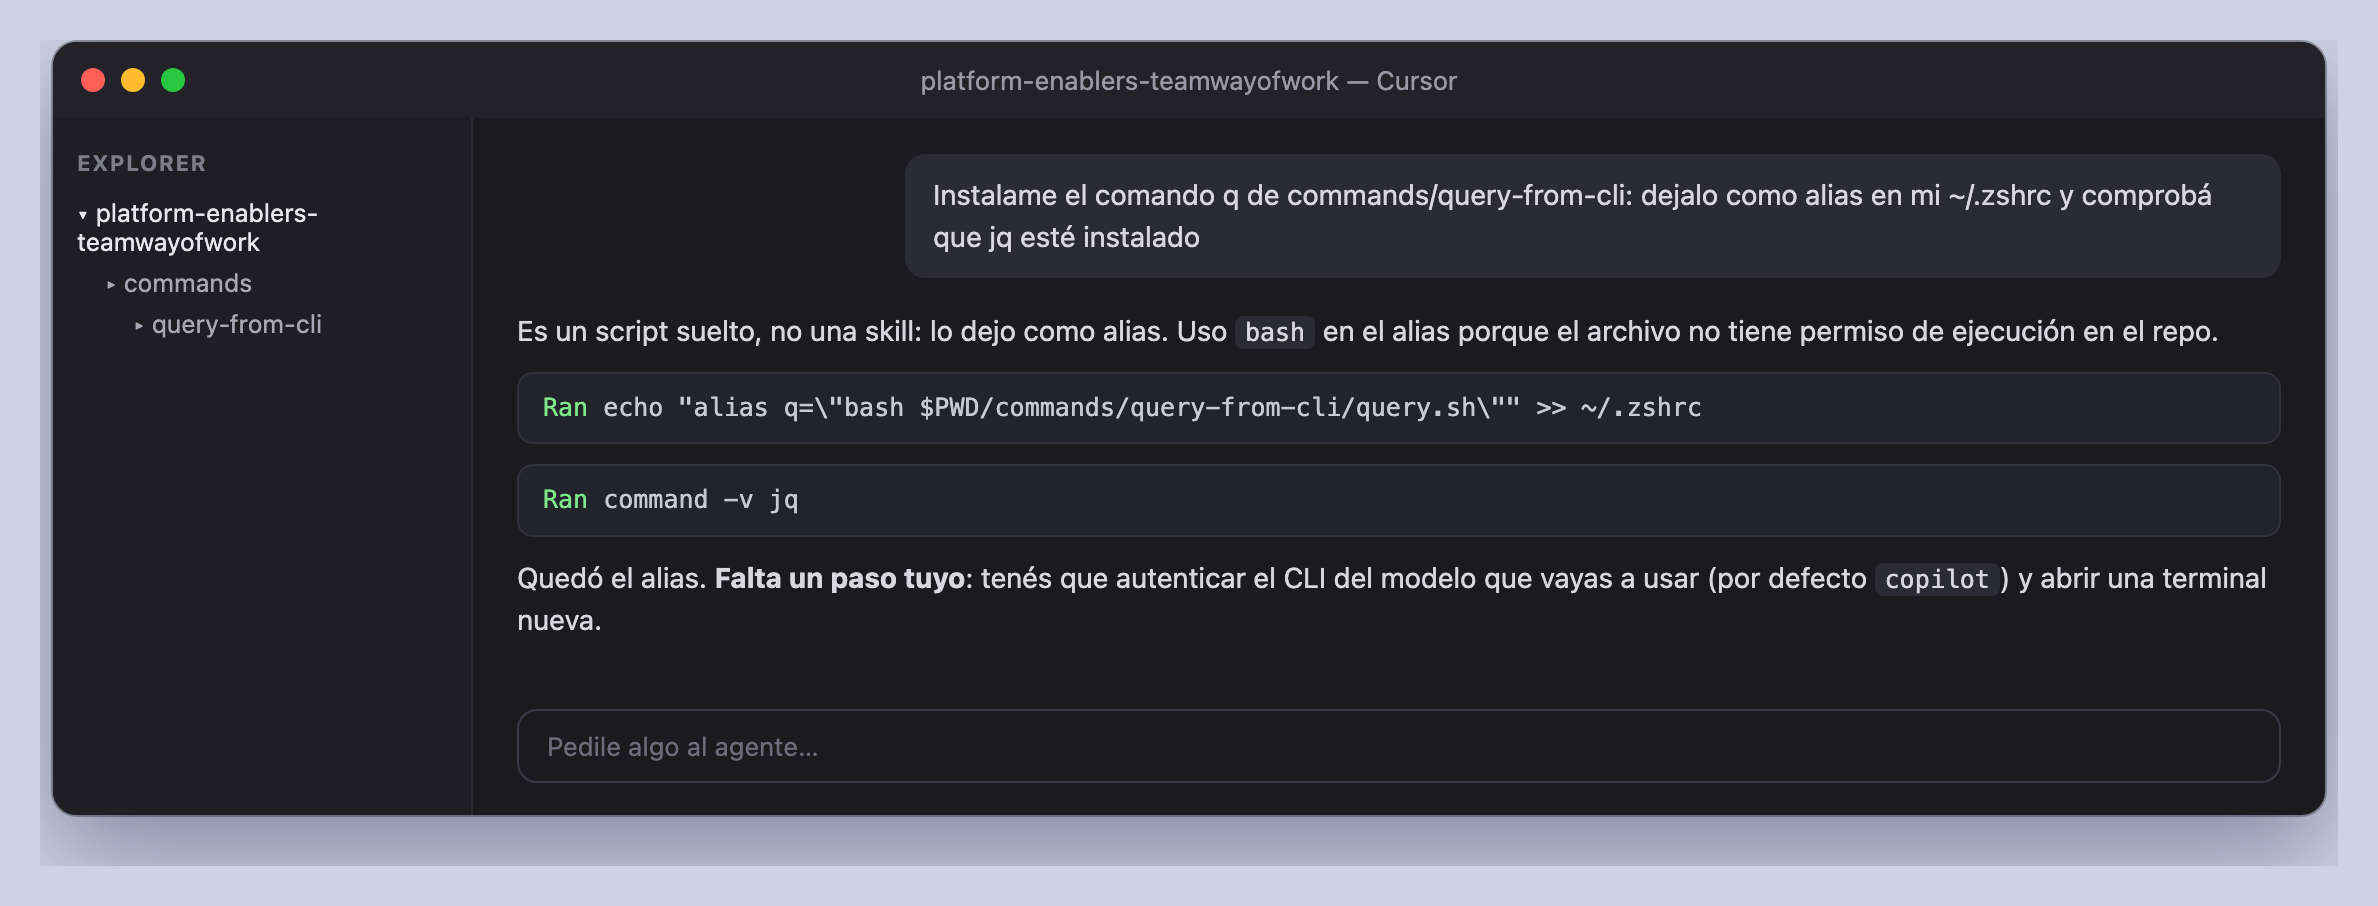
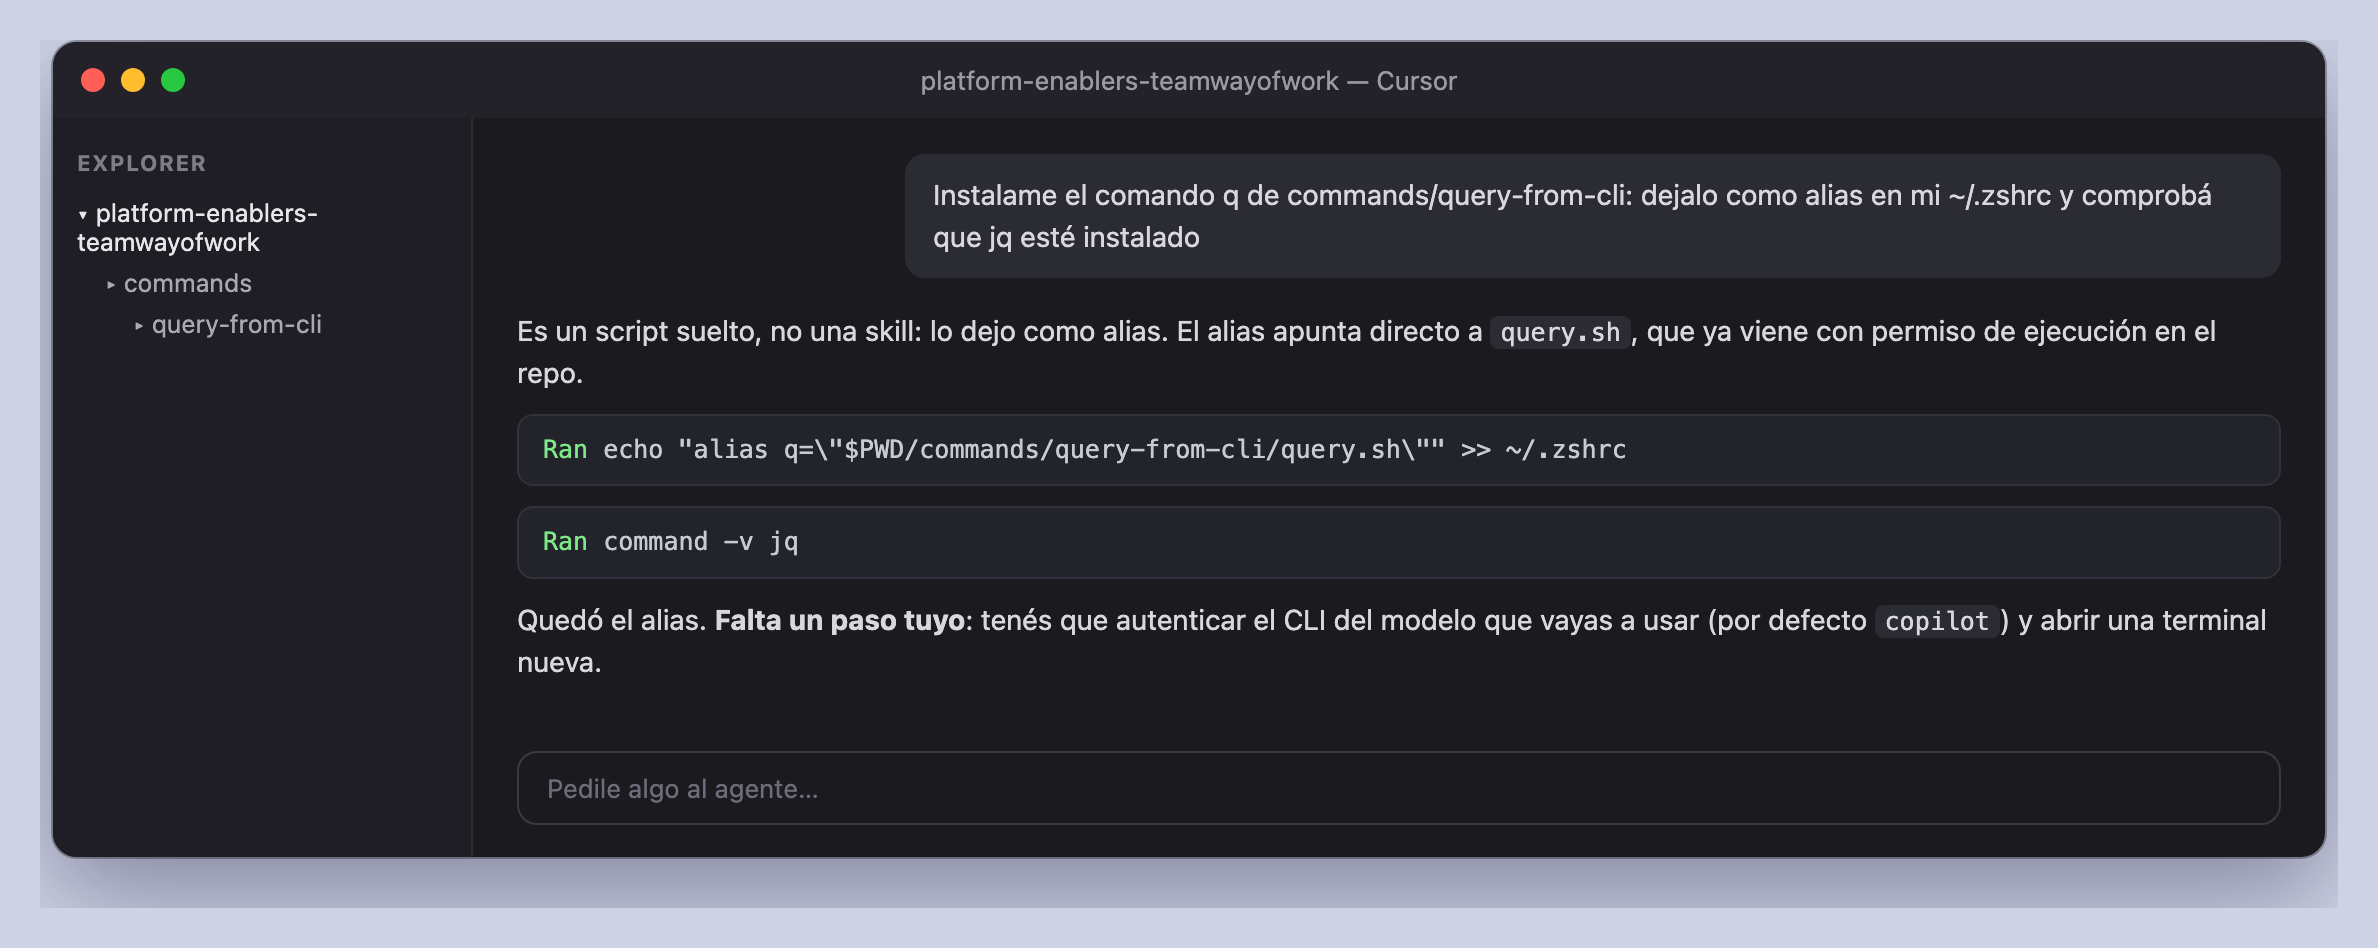
docs: alinear query-from-cli con el script ejecutable y el default copilot

diff --git a/commands/query-from-cli/docs/img/src/cursor-instalar.html b/commands/query-from-cli/docs/img/src/cursor-instalar.html
@@ -15,4 +15,4 @@
 code{font:12.5px Menlo,monospace;background:#2b2b34;padding:1px 5px;border-radius:4px}
 .cmd{background:#101014;border:1px solid #32323c;border-radius:8px;padding:10px 12px;font:12.5px Menlo,monospace;color:#79c0ff;margin:0 0 10px;white-space:pre-wrap}
 .in{margin:6px 22px 16px;border:1px solid #3a3a46;border-radius:10px;padding:10px 14px;color:#6c6c7a;font-size:13px}
-.right{flex:1;display:flex;flex-direction:column;min-width:0}</style><div class="win"><div class="bar"><div class="dots"><span class="r"></span><span class="y"></span><span class="g"></span></div><div class="ttl">teamwayofwork — Cursor</div></div><div class="main"><div class="side"><b>EXPLORER</b><div class="hot">▾ teamwayofwork</div><div class="i">▸ commands</div><div class="j">▸ query-from-cli</div></div><div class="right"><div class="chat"><div class="u">Instalame el comando q de commands/query-from-cli: dejalo como alias en mi ~/.zshrc y comprobá que jq esté instalado</div><div class="a"><p>Es un script suelto, no una skill: lo dejo como alias. Uso <code>bash</code> en el alias porque el archivo no tiene permiso de ejecución en el repo.</p><span class="chip"><em>Ran</em> echo &quot;alias q=\&quot;bash $PWD/commands/query-from-cli/query.sh\&quot;&quot; &gt;&gt; ~/.zshrc</span><span class="chip"><em>Ran</em> command -v jq</span><p>Quedó el alias. <b>Falta un paso tuyo</b>: tenés que autenticar el CLI del modelo que vayas a usar (por defecto <code>copilot</code>) y abrir una terminal nueva.</p></div></div><div class="in">Pedile algo al agente…</div></div></div></div>
+.right{flex:1;display:flex;flex-direction:column;min-width:0}</style><div class="win"><div class="bar"><div class="dots"><span class="r"></span><span class="y"></span><span class="g"></span></div><div class="ttl">teamwayofwork — Cursor</div></div><div class="main"><div class="side"><b>EXPLORER</b><div class="hot">▾ teamwayofwork</div><div class="i">▸ commands</div><div class="j">▸ query-from-cli</div></div><div class="right"><div class="chat"><div class="u">Instalame el comando q de commands/query-from-cli: dejalo como alias en mi ~/.zshrc y comprobá que jq esté instalado</div><div class="a"><p>Es un script suelto, no una skill: lo dejo como alias. El alias apunta directo a <code>query.sh</code>, que ya viene con permiso de ejecución en el repo.</p><span class="chip"><em>Ran</em> echo &quot;alias q=\&quot;$PWD/commands/query-from-cli/query.sh\&quot;&quot; &gt;&gt; ~/.zshrc</span><span class="chip"><em>Ran</em> command -v jq</span><p>Quedó el alias. <b>Falta un paso tuyo</b>: tenés que autenticar el CLI del modelo que vayas a usar (por defecto <code>copilot</code>) y abrir una terminal nueva.</p></div></div><div class="in">Pedile algo al agente…</div></div></div></div>

diff --git a/commands/query-from-cli/docs/img/src/terminal-error.html b/commands/query-from-cli/docs/img/src/terminal-error.html
@@ -6,5 +6,5 @@
 .ttl{position:absolute;left:0;right:0;text-align:center;color:#a9a9b3;font-size:13px}
 .term{background:#16161a;color:#e6e6ea;font:13.5px/1.5 Menlo,Monaco,monospace;padding:14px 18px 18px;white-space:pre}
 .p{color:#7ee787}.c{color:#7d8590}.o{color:#e6e6ea}.k{color:#79c0ff}</style><div class="win" style="width:936px"><div class="bar"><div class="dots"><span class="r"></span><span class="y"></span><span class="g"></span></div><div class="ttl">zsh — ~</div></div><div class="term"><span class="p">$</span> <span class="k">q --model=foo &quot;hola&quot;</span>
-<span class="o">exit 1</span>
+<span class="o">Unknown model: foo (choose: claude, codex, copilot, gemini)</span>
 <span class="c"># exit 1</span></div></div>

diff --git a/tests/test_docs_links.py b/tests/test_docs_links.py
@@ -9,6 +9,7 @@ the scripts really read.
 """
 from __future__ import annotations
 
+import os
 import re
 import unittest
 from pathlib import Path
@@ -108,7 +109,11 @@ class DocsTest(unittest.TestCase):
     def test_query_docs_give_an_alias_that_works_and_the_real_default_model(self):
         docs = "".join(p.read_text(encoding="utf-8") for p in pages("commands/query-from-cli"))
         self.assertNotIn("alias q=\"$PWD/commands", docs)  # literal $PWD in single quotes broke the alias
-        self.assertIn('alias q=\\"bash $PWD/commands/query-from-cli/query.sh\\"', docs)
+        self.assertIn('alias q=\\"$PWD/commands/query-from-cli/query.sh\\"', docs)
+        self.assertNotIn("bash $PWD/commands", docs)  # query.sh is executable now: the alias calls it directly
+        self.assertTrue(os.access(ROOT / "commands/query-from-cli/query.sh", os.X_OK))
+        for stale in ("Defaults to claude", "100644"):
+            self.assertNotIn(stale, docs)
         script = (ROOT / "commands/query-from-cli/query.sh").read_text(encoding="utf-8")
         self.assertIn('DEFAULT_MODEL="copilot"', script)
         self.assertIn("copilot", (ROOT / "commands/query-from-cli/docs/instalacion.md").read_text(encoding="utf-8"))

diff --git a/commands/query-from-cli/docs/instalacion-detallada.md b/commands/query-from-cli/docs/instalacion-detallada.md
@@ -32,17 +32,17 @@
 git clone git@github.com:josefigueredo/teamwayofwork.git && cd teamwayofwork
 
 # opción A: alias (la ruta se expande ahora porque el comando va entre comillas dobles)
-echo "alias q=\"bash $PWD/commands/query-from-cli/query.sh\"" >> ~/.zshrc
+echo "alias q=\"$PWD/commands/query-from-cli/query.sh\"" >> ~/.zshrc
 
 # opción B: symlink en un directorio de tu PATH
-chmod +x commands/query-from-cli/query.sh
 ln -s "$PWD/commands/query-from-cli/query.sh" ~/.local/bin/q
 ```
 
-Dos trampas, ambas verificadas:
+Dos cosas a tener en cuenta, ambas verificadas:
 
-1. **`query.sh` no es ejecutable en el repo** (`100644`). Ejecutarlo directo da `permission denied` (código 126). Por eso la
-   opción A usa `bash` y la B necesita `chmod +x` (que además deja un cambio de modo sin commitear en tu clon).
+1. **`query.sh` ya es ejecutable en el repo** (modo `100755`): el alias y el symlink lo llaman directo, sin `bash` ni `chmod +x`.
+   Lo comprobamos corriendo `q --model=foo hola` por la ruta directa y por un symlink: los dos dan `Unknown model: foo` y salen con
+   código 1. (Si tu clon es anterior a que se le diera permiso de ejecución, verás `permission denied`, código 126: actualizalo.)
 2. **Las comillas del alias.** Con `echo 'alias q="$PWD/…"'` (comillas simples) se escribe un `$PWD` literal en `~/.zshrc`, que zsh
    expande al abrir cada terminal: apunta a la carpeta donde estés, no al clon. Con comillas dobles de afuera, como arriba, queda
    la ruta completa.
@@ -55,8 +55,8 @@ q --model=foo "hola"      # no llama a ningún modelo
 
 ![Terminal con Unknown model: foo (choose: claude, codex, copilot, gemini) y el código de salida 1](img/terminal-error.png)
 
-Sin argumentos, `q` imprime su ayuda y sale con código 1. Ojo con esa ayuda: dice «Defaults to claude», pero el modelo por defecto
-es `copilot` (`DEFAULT_MODEL="copilot"`).
+Sin argumentos, `q` imprime su ayuda y sale con código 1. La ayuda termina de decir «Defaults to copilot», que es el modelo por
+defecto (`DEFAULT_MODEL="copilot"`).
 
 ## 4. Qué recibe cada CLI
 

diff --git a/commands/query-from-cli/docs/referencia.md b/commands/query-from-cli/docs/referencia.md
@@ -21,17 +21,15 @@ git clone git@github.com:josefigueredo/teamwayofwork.git
 cd teamwayofwork
 
 # opción A: alias en tu shell
-echo "alias q=\"bash $PWD/commands/query-from-cli/query.sh\"" >> ~/.zshrc
+echo "alias q=\"$PWD/commands/query-from-cli/query.sh\"" >> ~/.zshrc
 
 # opción B: symlink a un directorio que ya esté en tu PATH
-chmod +x commands/query-from-cli/query.sh
 ln -s "$PWD/commands/query-from-cli/query.sh" ~/.local/bin/q
 ```
 
-> **Nota (corregida respecto de la versión anterior de este README).** `query.sh` está versionado sin permiso de
-> ejecución (modo `100644`), así que ejecutarlo directo da `permission denied` (código 126): por eso la opción A usa
-> `bash` y la opción B necesita el `chmod +x`. Y el alias va escrito con comillas dobles de afuera para que `$PWD` se
-> expanda al escribirlo; con comillas simples quedaba un `$PWD` literal en `~/.zshrc` que apuntaba a la carpeta donde
+> **Nota (corregida respecto de la versión anterior de este README).** `query.sh` está versionado con permiso de
+> ejecución (modo `100755`), así que el alias y el symlink lo llaman directo, sin `bash` ni `chmod +x`. Y el alias va escrito
+> con comillas dobles de afuera para que `$PWD` se expanda al escribirlo; con comillas simples quedaba un `$PWD` literal en `~/.zshrc` que apuntaba a la carpeta donde
 > abrieras cada terminal.
 
 Verificá que quedó:
@@ -46,8 +44,8 @@ q "decime hola"
 q [--model=claude|codex|copilot|gemini] <prompt>
 ```
 
-Sin `--model`, usa `copilot` (`DEFAULT_MODEL="copilot"` en el script). El texto de ayuda que imprime `q` sin argumentos dice
-«Defaults to claude»: es un error de ese texto, no del comportamiento.
+Sin `--model`, usa `copilot` (`DEFAULT_MODEL="copilot"` en el script). El texto de ayuda que imprime `q` sin argumentos coincide: dice
+«Defaults to copilot».
 
 ```bash
 q "command to rank folders by last modified recursively"

diff --git a/commands/query-from-cli/docs/instalacion.md b/commands/query-from-cli/docs/instalacion.md
@@ -39,8 +39,8 @@ Necesitás `bash` y tu clon de `teamwayofwork` abierto en Cursor. Pedile:
 
 Qué pasó:
 
-- **Un alias**: `alias q="bash <ruta-a-tu-clon>/commands/query-from-cli/query.sh"`. Usa `bash` porque `query.sh` está versionado
-  **sin permiso de ejecución**: sin `bash` (o un `chmod +x`), ejecutarlo directo da `permission denied`.
+- **Un alias**: `alias q="<ruta-a-tu-clon>/commands/query-from-cli/query.sh"`. Apunta directo a `query.sh`, que está versionado
+  **con permiso de ejecución** (`100755`): no hace falta `bash` ni `chmod +x`.
 - **La ruta quedó fija** (se expandió al escribirla). Si mudás el clon de carpeta, actualizá el alias.
 - **`jq`** solo hace falta para `--model=codex`. Si falta, pedile `brew install jq`.
 
@@ -85,7 +85,7 @@ El alias apunta al archivo dentro de tu clon, así que no hace falta reinstalar.
 | Síntoma | Causa probable | Qué hacer |
 |---|---|---|
 | `q: command not found` | La terminal se abrió antes de crear el alias | Abrí una terminal nueva |
-| `permission denied` (código 126) | Ejecutás `query.sh` directo y no tiene permiso de ejecución | Usá el alias con `bash`, o `chmod +x` |
+| `permission denied` (código 126) | Tu clon es anterior a que `query.sh` tuviera permiso de ejecución | Actualizá el clon (`git pull`) |
 | `Unknown model: …` | `--model` con un valor que no es `claude`, `codex`, `copilot` ni `gemini` | Corregí el valor |
 | El modelo no responde | CLI sin instalar o sin sesión | Paso 2 |
 | `jq: command not found` con `--model=codex` | Falta `jq` | `brew install jq` |

diff --git a/commands/query-from-cli/README.md b/commands/query-from-cli/README.md
@@ -34,7 +34,7 @@ El agente deja el alias y avisa del único paso que es tuyo. La conversación es
 | Si querés… | Leé | Qué encontrás |
 |---|---|---|
 | **Instalarlo desde Cursor** | [Instalación y primer uso](docs/instalacion.md) | Prompts para instalar y comprobar, y el paso manual (autenticar el modelo) |
-| **Instalarlo comando por comando** | [Instalación detallada](docs/instalacion-detallada.md) | Requisitos, alias o symlink, el permiso de ejecución y qué argumentos recibe cada CLI |
+| **Instalarlo comando por comando** | [Instalación detallada](docs/instalacion-detallada.md) | Requisitos, alias o symlink y qué argumentos recibe cada CLI |
 | **Ver todo lo que hace** | [Showcase](docs/showcase.md) | Cada uso en un escenario, qué protege y qué no |
 | **Consultar un detalle** | [Referencia](docs/referencia.md) | El README original: cuándo usarlo, uso, requisitos |
 
@@ -42,7 +42,7 @@ El agente deja el alias y avisa del único paso que es tuyo. La conversación es
 
 ```bash
 git clone git@github.com:josefigueredo/teamwayofwork.git && cd teamwayofwork
-echo "alias q=\"bash $PWD/commands/query-from-cli/query.sh\"" >> ~/.zshrc      # abrí una terminal nueva después
+echo "alias q=\"$PWD/commands/query-from-cli/query.sh\"" >> ~/.zshrc      # abrí una terminal nueva después
 q "decime hola"                                                                  # necesita el CLI del modelo autenticado
 ```
 

diff --git a/commands/query-from-cli/docs/showcase.md b/commands/query-from-cli/docs/showcase.md
@@ -77,8 +77,6 @@ Cada modelo recibe el mismo prompt con sus propias opciones de modo liviano:
 | **No** te protege de… | Por qué |
 |---|---|
 | Que el modelo use herramientas | «Liviano» no es «sin herramientas»: `copilot` se lanza con `--allow-all-tools`, y el prompt solo le pide usar herramientas si la pregunta lo exige. Es una petición, no un bloqueo |
-| Un `permission denied` al instalar | `query.sh` está versionado sin permiso de ejecución: usá `bash` en el alias o `chmod +x` |
-| Una ayuda desactualizada | El texto de `q` sin argumentos dice «Defaults to claude»; el defecto real es `copilot` |
 | Una respuesta incorrecta | Es la respuesta de un modelo: verificala antes de ejecutar lo que te sugiere |
 
 **Cuando algo falla:** un CLI sin instalar o sin sesión hace que ese `--model` no corra; con `--model=codex` sin `jq`, no se puede
